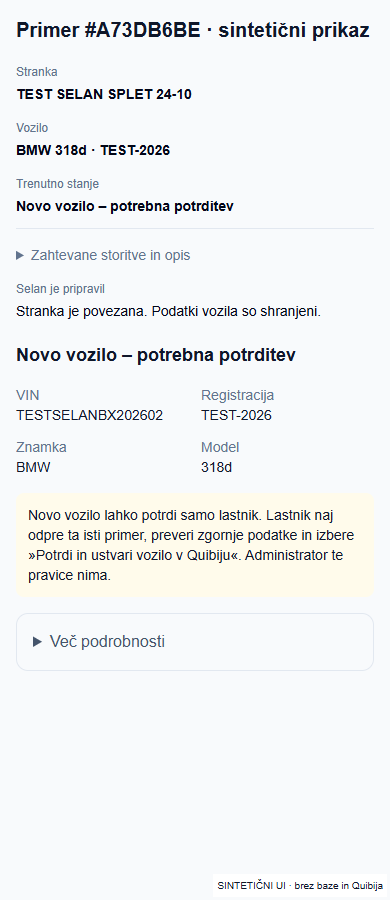
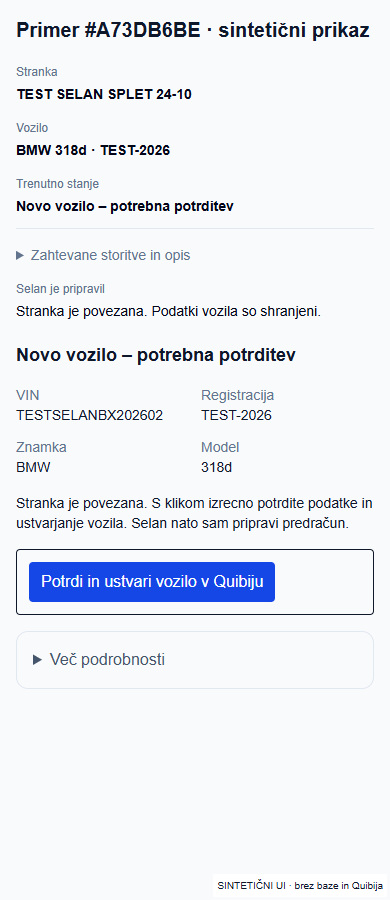
fix: allow explicit administrator vehicle confirmation in hosted DEV

Changed region(s): [[0.0308, 0.5289, 0.9231, 0.7467], [0.9231, 0.5289, 0.9538, 0.56], [0.0615, 0.7156, 0.0923, 0.7467]]

diff --git a/src/components/dashboard/VehicleResolutionPanel.tsx b/src/components/dashboard/VehicleResolutionPanel.tsx
@@ -1,11 +1,12 @@
+import {canConfirmQuibiVehicleCreate} from '@/lib/quibi/vehicle-create-permission';
 import {NewVehicleDecision} from './NewVehicleDecision';
 import {isHostedQuibiEnvironment,hostedQuibiEnvironment} from '@/lib/quibi/deployment-policy';
 import {quibiWorkflowConfig} from '@/lib/quibi/workflow-config';
 import {createClient as privileged} from '@supabase/supabase-js';import {requirePhase1OperationalAccess} from '@/lib/auth/requireWorkshopAccess';import {createClient} from '@/lib/supabase/server';import {configuredQuibiReadClient} from '@/lib/quibi/client';import {vehicleFingerprint} from '@/lib/quibi/contracts';import {VehicleResolutionForm} from './VehicleResolutionForm';
-export async function VehicleResolutionPanel({caseId,focused=false}:{caseId:string;focused?:boolean}){const a=await requirePhase1OperationalAccess();if(!['owner','admin'].includes(a.role)||!isHostedQuibiEnvironment(process.env))return null;const db=await createClient();const r=await db.from('service_requests').select('customer_id,vehicle_id,status,updated_at').eq('id',caseId).eq('organization_id',a.organizationId).single();if(r.error||!r.data?.vehicle_id)return null;const [v,l,vl]=await Promise.all([db.from('vehicles').select('vin,registration_current,make,model').eq('id',r.data.vehicle_id).eq('organization_id',a.organizationId).single(),db.from('integration_links').select('external_id,sync_status,quibi_environment').eq('organization_id',a.organizationId).eq('entity_id',r.data.customer_id).eq('entity_type','customer').eq('provider','quibi').maybeSingle(),db.from('quibi_vehicle_links').select('quibi_vehicle_id,sync_status').eq('organization_id',a.organizationId).eq('vehicle_id',r.data.vehicle_id).maybeSingle()]);if(!v.data||!l.data||l.data.quibi_environment!==hostedQuibiEnvironment(process.env))return null;const fields={vin:v.data.vin??'',registration:v.data.registration_current??'',make:v.data.make??'',model:v.data.model??''};let candidates:Awaited<ReturnType<ReturnType<typeof configuredQuibiReadClient>['vehicles']>>=[];let readOk=true;try{candidates=await configuredQuibiReadClient().vehicles(l.data.external_id)}catch{readOk=false}const linked=candidates.find(x=>x.id===vl.data?.quibi_vehicle_id);let writeReady=false;try{writeReady=quibiWorkflowConfig(process.env,'write').mode===hostedQuibiEnvironment(process.env)}catch{}let ready=false;const key=process.env.SUPABASE_SERVICE_ROLE_KEY,url=process.env.NEXT_PUBLIC_SUPABASE_URL;if(key&&url){const readyResult=await privileged(url,key,{auth:{persistSession:false,autoRefreshToken:false}}).rpc('resolve_case_vehicle',{p_case:caseId,p_actor:a.userId,p_action:'ready'});ready=!readyResult.error&&readyResult.data?.ok===true}const customerLink=l.data;const editable=['new','needs_data'].includes(r.data.status);const labels={vin:'VIN',registration:'Registracija',make:'Znamka',model:'Model'};
+export async function VehicleResolutionPanel({caseId,focused=false}:{caseId:string;focused?:boolean}){const a=await requirePhase1OperationalAccess();if(!['owner','admin'].includes(a.role)||!isHostedQuibiEnvironment(process.env))return null;const canCreate=canConfirmQuibiVehicleCreate(a.role,process.env);const db=await createClient();const r=await db.from('service_requests').select('customer_id,vehicle_id,status,updated_at').eq('id',caseId).eq('organization_id',a.organizationId).single();if(r.error||!r.data?.vehicle_id)return null;const [v,l,vl]=await Promise.all([db.from('vehicles').select('vin,registration_current,make,model').eq('id',r.data.vehicle_id).eq('organization_id',a.organizationId).single(),db.from('integration_links').select('external_id,sync_status,quibi_environment').eq('organization_id',a.organizationId).eq('entity_id',r.data.customer_id).eq('entity_type','customer').eq('provider','quibi').maybeSingle(),db.from('quibi_vehicle_links').select('quibi_vehicle_id,sync_status').eq('organization_id',a.organizationId).eq('vehicle_id',r.data.vehicle_id).maybeSingle()]);if(!v.data||!l.data||l.data.quibi_environment!==hostedQuibiEnvironment(process.env))return null;const fields={vin:v.data.vin??'',registration:v.data.registration_current??'',make:v.data.make??'',model:v.data.model??''};let candidates:Awaited<ReturnType<ReturnType<typeof configuredQuibiReadClient>['vehicles']>>=[];let readOk=true;try{candidates=await configuredQuibiReadClient().vehicles(l.data.external_id)}catch{readOk=false}const linked=candidates.find(x=>x.id===vl.data?.quibi_vehicle_id);let writeReady=false;try{writeReady=quibiWorkflowConfig(process.env,'write').mode===hostedQuibiEnvironment(process.env)}catch{}let ready=false;const key=process.env.SUPABASE_SERVICE_ROLE_KEY,url=process.env.NEXT_PUBLIC_SUPABASE_URL;if(key&&url){const readyResult=await privileged(url,key,{auth:{persistSession:false,autoRefreshToken:false}}).rpc('resolve_case_vehicle',{p_case:caseId,p_actor:a.userId,p_action:'ready'});ready=!readyResult.error&&readyResult.data?.ok===true}const customerLink=l.data;const editable=['new','needs_data'].includes(r.data.status);const labels={vin:'VIN',registration:'Registracija',make:'Znamka',model:'Model'};
 const sameVehicle=candidates.filter(x=>!x.disabled&&(x.vin.trim().toUpperCase()===fields.vin.trim().toUpperCase()||x.registration.replace(/[^a-z0-9]/gi,'').toLowerCase()===fields.registration.replace(/[^a-z0-9]/gi,'').toLowerCase()));
-if(focused&&!vl.data&&editable&&!sameVehicle.length)return <NewVehicleDecision role={a.role} caseId={caseId} expected={r.data.updated_at} fields={fields} fingerprint={vehicleFingerprint(fields)} readOk={readOk} enabled={ready&&writeReady&&customerLink.sync_status==='ok'}/>;
+if(focused&&!vl.data&&editable&&!sameVehicle.length)return <NewVehicleDecision canCreate={canCreate} role={a.role} caseId={caseId} expected={r.data.updated_at} fields={fields} fingerprint={vehicleFingerprint(fields)} readOk={readOk} enabled={ready&&writeReady&&customerLink.sync_status==='ok'}/>;
 if(focused&&!vl.data&&editable)return <section aria-label="Potrditev vozila" className="space-y-4"><h2 className="text-lg font-semibold">{sameVehicle.length?'Preveri obstoječe vozilo':'Novo vozilo – potrebna potrditev'}</h2><dl className="grid grid-cols-2 gap-3 text-sm">{Object.entries(fields).map(([key,value])=><div key={key}><dt className="text-slate-500">{labels[key as keyof typeof labels]}</dt><dd className="break-words font-medium">{value||'Manjka podatek'}</dd></div>)}</dl>
-{!readOk?<p role="alert">Vozil trenutno ni mogoče preveriti. Podatki ostajajo shranjeni; poskusite po ponovni vzpostavitvi povezave.</p>:sameVehicle.length?<> <p>V Quibiju obstaja možna povezava. Novega vozila ne ustvarjajte.</p>{sameVehicle.map(x=><div key={x.id}><p>{x.registration} · {x.make} {x.model} · {x.vin}</p>{vehicleFingerprint(fields)===vehicleFingerprint(x)?<VehicleResolutionForm caseId={caseId} expected={r.data.updated_at} mode="link" remoteId={x.id} remoteFingerprint={vehicleFingerprint(x)} enabled={ready&&customerLink.sync_status==='ok'}/>:<p>Podatki se razlikujejo. Preverite in popravite podatke v podrobnostih primera.</p>}</div>)}</>:a.role!=='owner'?<p role="status" className="rounded-lg bg-amber-50 p-3 text-sm">Novo vozilo lahko potrdi samo lastnik. Lastnik naj odpre ta isti primer, preveri zgornje podatke in izbere »Potrdi in ustvari vozilo v Quibiju«. Administrator te pravice nima.</p>:ready&&writeReady&&customerLink.sync_status==='ok'?<><p className="text-sm">Stranka je povezana. S klikom izrecno potrdite zgornje podatke in ustvarjanje vozila. Selan nato sam pripravi predračun.</p><VehicleResolutionForm directConfirmation caseId={caseId} expected={r.data.updated_at} mode="create" baselineFingerprint={vehicleFingerprint(fields)} enabled={!!fields.vin&&!!fields.registration&&!!fields.make&&!!fields.model}/></>:<p role="status">Ustvarjanje še ni na voljo. Lastnik naj preveri manjkajoče podatke oziroma povezavo v podrobnostih primera; vozilo ni ustvarjeno.</p>}
+{!readOk?<p role="alert">Vozil trenutno ni mogoče preveriti. Podatki ostajajo shranjeni; poskusite po ponovni vzpostavitvi povezave.</p>:sameVehicle.length?<> <p>V Quibiju obstaja možna povezava. Novega vozila ne ustvarjajte.</p>{sameVehicle.map(x=><div key={x.id}><p>{x.registration} · {x.make} {x.model} · {x.vin}</p>{vehicleFingerprint(fields)===vehicleFingerprint(x)?<VehicleResolutionForm caseId={caseId} expected={r.data.updated_at} mode="link" remoteId={x.id} remoteFingerprint={vehicleFingerprint(x)} enabled={ready&&customerLink.sync_status==='ok'}/>:<p>Podatki se razlikujejo. Preverite in popravite podatke v podrobnostih primera.</p>}</div>)}</>:!canCreate?<p role="status" className="rounded-lg bg-amber-50 p-3 text-sm">Novo vozilo lahko potrdi samo lastnik. Lastnik naj odpre ta isti primer, preveri zgornje podatke in izbere »Potrdi in ustvari vozilo v Quibiju«. Administrator te pravice nima.</p>:ready&&writeReady&&customerLink.sync_status==='ok'?<><p className="text-sm">Stranka je povezana. S klikom izrecno potrdite zgornje podatke in ustvarjanje vozila. Selan nato sam pripravi predračun.</p><VehicleResolutionForm directConfirmation caseId={caseId} expected={r.data.updated_at} mode="create" baselineFingerprint={vehicleFingerprint(fields)} enabled={!!fields.vin&&!!fields.registration&&!!fields.make&&!!fields.model}/></>:<p role="status">Ustvarjanje še ni na voljo. Preverite manjkajoče podatke oziroma povezavo v podrobnostih primera; vozilo ni ustvarjeno.</p>}
 </section>;
-return <section className="space-y-4 rounded-xl border bg-white p-4"><h2 className="text-lg font-semibold">Preveri in razreši vozilo</h2><p>Popravek povpraševanja in povezava ne spreminjata vozila v Quibiju. Prejšnji podatki ostanejo v zgodovini. Potrdi samo isto fizično vozilo.</p><div className="overflow-x-auto"><table className="w-full text-left text-sm"><thead><tr><th>Podatek</th><th>Povpraševanje</th><th>Quibi {vl.data?'#'+vl.data.quibi_vehicle_id:''}</th></tr></thead><tbody>{Object.entries(fields).map(([key,value])=><tr key={key} className={linked&&value!==linked[key as keyof typeof fields]?'bg-amber-50':''}><th className="p-2">{labels[key as keyof typeof labels]}</th><td className="break-all p-2">{value||'Manjka'}</td><td className="break-all p-2">{linked?.[key as keyof typeof fields]||'Ni potrjeno prebrano'}</td></tr>)}</tbody></table></div>{!readOk&&<p role="alert">Quibi vozil trenutno ni mogoče prebrati. Izbira in CREATE sta ustavljena.</p>}{!ready&&<p role="alert">Popravek in zamenjava povezave še čakata odobritev minimalne migracije case_vehicle_resolution. Primerjavo lahko uporabljate že zdaj; podatki niso spremenjeni.</p>}{!editable&&<p>Primer je že sprejet. Pred spremembo identitete je potreben pregled vezanih dokumentov; podatkov ne prepisujemo.</p>}<details><summary className="cursor-pointer py-2 font-medium">Popravi napačne podatke povpraševanja po preverjanju</summary><VehicleResolutionForm caseId={caseId} expected={r.data.updated_at} mode="correct" fields={fields} enabled={ready&&editable}/></details><h3 className="font-semibold">Obstoječa vozila stranke v Quibiju</h3>{candidates.filter(x=>!x.disabled).map(x=>{const matches=vehicleFingerprint(fields)===vehicleFingerprint(x);return <article key={x.id} className="rounded border p-3"><p>#{x.id} · {x.registration} · {x.make} {x.model} · VIN {x.vin}</p><p className="text-sm">{matches?'Podatki se ujemajo s povpraševanjem.':'Podatki se ne ujemajo. Najprej preverite pravilen izvor podatkov; te povezave ne potrjujte.'}</p><details><summary className="cursor-pointer py-2">To je pravo vozilo: pripravi popravek povpraševanja iz teh podatkov</summary><VehicleResolutionForm caseId={caseId} expected={r.data.updated_at} mode="correct" fields={{vin:x.vin,registration:x.registration,make:x.make,model:x.model}} enabled={ready&&editable}/></details><VehicleResolutionForm caseId={caseId} expected={r.data.updated_at} mode="link" remoteId={x.id} remoteFingerprint={vehicleFingerprint(x)} enabled={ready&&editable&&matches&&customerLink.sync_status==='ok'}/></article>})}<details><summary className="cursor-pointer py-2 font-medium">Vozila ni v Quibiju: pripravi novo vozilo</summary><p>Lastnik naj najprej preveri in popravi VIN ter podatke povpraševanja. CREATE preveri podvojitve, uporablja obstoječi dnevnik in ponovno prebere rezultat. Ob neznanem izidu zahteve ne ponovi.</p><VehicleResolutionForm caseId={caseId} expected={r.data.updated_at} mode="create" baselineFingerprint={vehicleFingerprint(fields)} enabled={ready&&editable&&readOk&&writeReady&&a.role==='owner'&&!candidates.some(x=>x.vin.trim().toUpperCase()===fields.vin.trim().toUpperCase())&&l.data.sync_status==='ok'}/></details></section>}
+return <section className="space-y-4 rounded-xl border bg-white p-4"><h2 className="text-lg font-semibold">Preveri in razreši vozilo</h2><p>Popravek povpraševanja in povezava ne spreminjata vozila v Quibiju. Prejšnji podatki ostanejo v zgodovini. Potrdi samo isto fizično vozilo.</p><div className="overflow-x-auto"><table className="w-full text-left text-sm"><thead><tr><th>Podatek</th><th>Povpraševanje</th><th>Quibi {vl.data?'#'+vl.data.quibi_vehicle_id:''}</th></tr></thead><tbody>{Object.entries(fields).map(([key,value])=><tr key={key} className={linked&&value!==linked[key as keyof typeof fields]?'bg-amber-50':''}><th className="p-2">{labels[key as keyof typeof labels]}</th><td className="break-all p-2">{value||'Manjka'}</td><td className="break-all p-2">{linked?.[key as keyof typeof fields]||'Ni potrjeno prebrano'}</td></tr>)}</tbody></table></div>{!readOk&&<p role="alert">Quibi vozil trenutno ni mogoče prebrati. Izbira in CREATE sta ustavljena.</p>}{!ready&&<p role="alert">Popravek in zamenjava povezave še čakata odobritev minimalne migracije case_vehicle_resolution. Primerjavo lahko uporabljate že zdaj; podatki niso spremenjeni.</p>}{!editable&&<p>Primer je že sprejet. Pred spremembo identitete je potreben pregled vezanih dokumentov; podatkov ne prepisujemo.</p>}<details><summary className="cursor-pointer py-2 font-medium">Popravi napačne podatke povpraševanja po preverjanju</summary><VehicleResolutionForm caseId={caseId} expected={r.data.updated_at} mode="correct" fields={fields} enabled={ready&&editable}/></details><h3 className="font-semibold">Obstoječa vozila stranke v Quibiju</h3>{candidates.filter(x=>!x.disabled).map(x=>{const matches=vehicleFingerprint(fields)===vehicleFingerprint(x);return <article key={x.id} className="rounded border p-3"><p>#{x.id} · {x.registration} · {x.make} {x.model} · VIN {x.vin}</p><p className="text-sm">{matches?'Podatki se ujemajo s povpraševanjem.':'Podatki se ne ujemajo. Najprej preverite pravilen izvor podatkov; te povezave ne potrjujte.'}</p><details><summary className="cursor-pointer py-2">To je pravo vozilo: pripravi popravek povpraševanja iz teh podatkov</summary><VehicleResolutionForm caseId={caseId} expected={r.data.updated_at} mode="correct" fields={{vin:x.vin,registration:x.registration,make:x.make,model:x.model}} enabled={ready&&editable}/></details><VehicleResolutionForm caseId={caseId} expected={r.data.updated_at} mode="link" remoteId={x.id} remoteFingerprint={vehicleFingerprint(x)} enabled={ready&&editable&&matches&&customerLink.sync_status==='ok'}/></article>})}<details><summary className="cursor-pointer py-2 font-medium">Vozila ni v Quibiju: pripravi novo vozilo</summary><p>Pred potrditvijo preverite in popravite VIN ter podatke povpraševanja. CREATE preveri podvojitve, uporablja obstoječi dnevnik in ponovno prebere rezultat. Ob neznanem izidu zahteve ne ponovi.</p><VehicleResolutionForm caseId={caseId} expected={r.data.updated_at} mode="create" baselineFingerprint={vehicleFingerprint(fields)} enabled={ready&&editable&&readOk&&writeReady&&canCreate&&!candidates.some(x=>x.vin.trim().toUpperCase()===fields.vin.trim().toUpperCase())&&l.data.sync_status==='ok'}/></details></section>}

diff --git a/src/lib/quibi/vehicle-resolution-actions.ts b/src/lib/quibi/vehicle-resolution-actions.ts
@@ -1,4 +1,5 @@
 "use server";
+import {canConfirmQuibiVehicleCreate} from './vehicle-create-permission';
 import {scheduleIntakeSynchronization} from './automatic-intake-sync';
 import {hostedQuibiEnvironment,quibiJournalTable} from './deployment-policy';
 import {quibiWorkflowConfig} from './workflow-config';
@@ -31,9 +32,16 @@ export async function resolveCaseVehicle(form:FormData){try{
  revalidatePath('/dashboard');revalidatePath('/dashboard/primeri/'+id);return {ok:true,message:mode==='link'?'Vozilo je povezano. Selan samodejno pripravlja predračun.':'Popravek povpraševanja je shranjen; prejšnji podatki ostanejo v zgodovini. Zdaj preverite in potrdite pravo Quibi vozilo.'};
 }catch(e){const code=e instanceof Error?e.message:'';return {ok:false,message:/CORRECT_INTAKE_FIRST|VEHICLE_IDENTITY_MISMATCH/.test(code)?'Izbrano vozilo se ne ujema. Najprej preverite in popravite podatke povpraševanja; povezava ni potrjena.':/CASE_CHANGED|REVISION_CONFLICT/.test(code)?'Primer ali podatki so se spremenili. Osvežite stran in ponovno preglejte popravek.':/VEHICLE_SHARED|VEHICLE_CONFLICT|OWNERSHIP_CONFLICT/.test(code)?'Vozilo je uporabljeno drugje ali ima drugo stranko. Sprememba je ustavljena, da ohranimo druge primere.':'Razrešitev ni shranjena. Preverite identiteto in odobreno aktivacijo funkcije; noben Quibi zapis ni spremenjen.'}}
 }
-export async function createVehicleForCase(form:FormData){try{const environment=hostedQuibiEnvironment(process.env);const a=await requirePhase1OperationalAccess();if(a.role!=='owner'||form.get('confirmed')!=='yes')throw Error('FORBIDDEN');quibiWorkflowConfig(process.env,'write');const db=await createClient();const id=String(form.get('caseId'));const r=await db.from('service_requests').select('customer_id,vehicle_id,status,updated_at').eq('id',id).eq('organization_id',a.organizationId).is('archived_at',null).single();if(r.error||!r.data||!['new','needs_data'].includes(r.data.status))throw Error('CASE_CHANGED');
+export async function createVehicleForCase(form:FormData){try{const environment=hostedQuibiEnvironment(process.env);const a=await requirePhase1OperationalAccess();if(!canConfirmQuibiVehicleCreate(a.role,process.env)||form.get('confirmed')!=='yes')throw Error('FORBIDDEN');quibiWorkflowConfig(process.env,'write');const db=await createClient();const id=String(form.get('caseId'));const r=await db.from('service_requests').select('customer_id,vehicle_id,status,updated_at').eq('id',id).eq('organization_id',a.organizationId).is('archived_at',null).single();if(r.error||!r.data||!['new','needs_data'].includes(r.data.status))throw Error('CASE_CHANGED');
  if(r.data.updated_at!==String(form.get('expected'))||!UUID_RE.test(String(form.get('revision'))))throw Error('CASE_CHANGED');const key=process.env.SUPABASE_SERVICE_ROLE_KEY,url=process.env.NEXT_PUBLIC_SUPABASE_URL;if(!key||!url)throw Error('ACTIVATION_REQUIRED');const store=privileged(url,key,{auth:{persistSession:false,autoRefreshToken:false}});const ready=await store.rpc('resolve_case_vehicle',{p_case:id,p_actor:a.userId,p_action:'ready'});if(ready.error||!ready.data?.ok)throw Error('ACTIVATION_REQUIRED');
  const [v,l,c]=await Promise.all([db.from('vehicles').select('vin,registration_current,make,model').eq('id',r.data.vehicle_id).eq('customer_id',r.data.customer_id).eq('organization_id',a.organizationId).single(),db.from('integration_links').select('*').eq('organization_id',a.organizationId).eq('entity_id',r.data.customer_id).eq('entity_type','customer').eq('provider','quibi').single(),db.from('customers').select('display_name,phone,email').eq('id',r.data.customer_id).eq('organization_id',a.organizationId).single()]);if(v.error||l.error||c.error||!v.data||!l.data||!c.data||l.data.sync_status!=='ok'||l.data.quibi_environment!==environment)throw Error('IDENTITY_UNVERIFIED');const read=configuredQuibiReadClient();if(customerFingerprint(await read.customer(l.data.external_id))!==l.data.external_fingerprint||customerFingerprint({name:c.data.display_name,phone:c.data.phone??'',email:c.data.email??''})!==l.data.local_fingerprint)throw Error('IDENTITY_UNVERIFIED');const fields={vin:v.data.vin??'',registration:v.data.registration_current??'',make:v.data.make??'',model:v.data.model??''};if(!fields.vin||!fields.registration||!fields.make||!fields.model)throw Error('INVALID_FIELDS');
  if(vehicleFingerprint(fields)!==String(form.get('baselineFingerprint')))throw Error('CASE_CHANGED');const bound=await db.from(quibiJournalTable(environment)).select('id').eq('organization_id',a.organizationId).eq('service_request_id',id).in('kind',['estimate','work_order','invoice','send']).limit(1);const quote=await db.from('quotes').select('id').eq('organization_id',a.organizationId).eq('service_request_id',id).limit(1);if(bound.error||quote.error||bound.data?.length||quote.data?.length)throw Error('DOCUMENTS_BOUND');const op=await createOrReconcileVehicle({journal:quibiWorkflowJournal(a.organizationId,a.userId),read,write:configuredQuibiWorkflowWriteClient(),input:{serviceRequestId:id,vehicleId:r.data.vehicle_id!,quibiCustomerId:l.data.external_id,...fields}});if(!op.quibiId)throw Error('UNKNOWN');const remote=await read.vehicle(op.quibiId,l.data.external_id);if(remote.disabled||vehicleFingerprint(remote)!==vehicleFingerprint(fields))throw Error('UNKNOWN');
  const result=await store.rpc('resolve_case_vehicle',{p_case:id,p_actor:a.userId,p_action:'link',p_revision:String(form.get('revision')),p_expected:String(form.get('expected')),p_fields:fields,p_remote:{id:remote.id,customerId:remote.customerId,fingerprint:vehicleFingerprint(remote),fields}});if(result.error)throw Error('UNKNOWN');if(result.data?.vehicleId)await refreshResolvedCompleteness(db,store,a.organizationId,id,String(result.data.vehicleId));scheduleIntakeSynchronization(id);revalidatePath('/dashboard');revalidatePath('/dashboard/primeri/'+id);return {ok:true,message:'Vozilo je ustvarjeno in povezano. Selan samodejno pripravlja predračun.'};
-}catch{return {ok:false,message:'Ustvarjanje oziroma povezava nista potrjena. Preverite aktivacijo, identiteto in dnevnik. Ob neznanem izidu ne pošiljajte CREATE znova.'}}}
+}catch(e){const code=e instanceof Error?e.message:'';const messages:Record<string,string>={
+ FORBIDDEN:'Za novo vozilo je potrebna izrecna potrditev pooblaščenega uporabnika. Administrator ima to pravico samo v gostovanem DEV.',
+ CASE_CHANGED:'Podatki primera so se spremenili. Osvežite stran, preglejte trenutno vozilo in ga nato potrdite.',
+ ACTIVATION_REQUIRED:'Povezava za zapis ni pripravljena. Skrbnik naj preveri povezavo Quibi DEV; vozila še ne ustvarjajte.',
+ IDENTITY_UNVERIFIED:'Povezava stranke se je spremenila. Najprej preverite stranko v podrobnostih primera.',
+ INVALID_FIELDS:'Dopolnite VIN, registracijo, znamko in model v podatkih primera.',
+ DOCUMENTS_BOUND:'Primer že ima vezan dokument. Preverite obstoječe dokumente v podrobnostih; novega vozila ne ustvarjajte.',
+};return {ok:false,message:messages[code]??'Ustvarjanje oziroma povezava nista potrjena. Preverite obstoječe vozilo in dnevnik v podrobnostih. Ob neznanem izidu ne ustvarjajte ponovno.'}}}

diff --git a/src/components/dashboard/VehicleResolutionForm.tsx b/src/components/dashboard/VehicleResolutionForm.tsx
@@ -1,3 +1,3 @@
 "use client";
 import {useRef,useState,useTransition} from 'react';import {useRouter} from 'next/navigation';import {resolveCaseVehicle,createVehicleForCase} from '@/lib/quibi/vehicle-resolution-actions';
-export function VehicleResolutionForm({caseId,expected,mode,fields,remoteId,remoteFingerprint,baselineFingerprint,enabled,directConfirmation=false}:{caseId:string;expected:string;mode:'correct'|'link'|'create';fields?:{vin:string;registration:string;make:string;model:string};remoteId?:string;remoteFingerprint?:string;baselineFingerprint?:string;enabled:boolean;directConfirmation?:boolean}){const router=useRouter(),lock=useRef(false),revision=useRef<string|null>(null),[pending,start]=useTransition(),[message,setMessage]=useState('');return <form className="space-y-2 rounded border p-3" onSubmit={e=>{e.preventDefault();if(lock.current)return;lock.current=true;const f=new FormData(e.currentTarget);revision.current??=crypto.randomUUID();f.set('caseId',caseId);f.set('mode',mode);f.set('expected',expected);f.set('revision',revision.current);if(baselineFingerprint)f.set('baselineFingerprint',baselineFingerprint);if(remoteId)f.set('remoteId',remoteId);if(remoteFingerprint)f.set('remoteFingerprint',remoteFingerprint);start(async()=>{try{const r=mode==='create'?await createVehicleForCase(f):await resolveCaseVehicle(f);setMessage(r.message);if(r.ok){revision.current=null;router.refresh()}}catch{setMessage('Izid ni potrjen. Preverite stanje pred ponovitvijo.')}finally{lock.current=false}})}}>{mode==='correct'&&fields&&Object.entries(fields).map(([key,value])=><label key={key} className="block">{{vin:'VIN',registration:'Registracija',make:'Znamka',model:'Model'}[key]}<input name={key} defaultValue={value} required maxLength={key==='vin'?32:100} className="block w-full rounded border p-2"/></label>)}{directConfirmation&&mode==='create'?<input type="hidden" name="confirmed" value="yes"/>:<><label className="flex gap-2"><input name="confirmed" value="yes" type="checkbox" required/> {mode==='create'?'Kot lastnik potrjujem ustvarjanje novega vozila v Quibi DEV po pregledu podatkov in obstoječih vozil.':mode==='link'?'Preveril sem VIN in podatke. To je isto fizično vozilo.':'Preveril sem izvor pravilnih podatkov in potrjujem popravek samo tega povpraševanja.'}</label></>}<button disabled={!enabled||pending} className="rounded bg-blue-700 px-3 py-2 text-white disabled:opacity-50">{pending?'Preverjam…':mode==='create'?'Potrdi in ustvari vozilo v Quibiju':mode==='link'?'Potrdi pravo vozilo':'Shrani preverjeni popravek'}</button>{message&&<p role="status">{message}</p>}</form>}
+export function VehicleResolutionForm({caseId,expected,mode,fields,remoteId,remoteFingerprint,baselineFingerprint,enabled,directConfirmation=false}:{caseId:string;expected:string;mode:'correct'|'link'|'create';fields?:{vin:string;registration:string;make:string;model:string};remoteId?:string;remoteFingerprint?:string;baselineFingerprint?:string;enabled:boolean;directConfirmation?:boolean}){const router=useRouter(),lock=useRef(false),revision=useRef<string|null>(null),[pending,start]=useTransition(),[message,setMessage]=useState('');return <form className="space-y-2 rounded border p-3" onSubmit={e=>{e.preventDefault();if(lock.current)return;lock.current=true;const f=new FormData(e.currentTarget);revision.current??=crypto.randomUUID();f.set('caseId',caseId);f.set('mode',mode);f.set('expected',expected);f.set('revision',revision.current);if(baselineFingerprint)f.set('baselineFingerprint',baselineFingerprint);if(remoteId)f.set('remoteId',remoteId);if(remoteFingerprint)f.set('remoteFingerprint',remoteFingerprint);start(async()=>{try{const r=mode==='create'?await createVehicleForCase(f):await resolveCaseVehicle(f);setMessage(r.message);if(r.ok){revision.current=null;router.refresh()}}catch{setMessage('Izid ni potrjen. Preverite stanje pred ponovitvijo.')}finally{lock.current=false}})}}>{mode==='correct'&&fields&&Object.entries(fields).map(([key,value])=><label key={key} className="block">{{vin:'VIN',registration:'Registracija',make:'Znamka',model:'Model'}[key]}<input name={key} defaultValue={value} required maxLength={key==='vin'?32:100} className="block w-full rounded border p-2"/></label>)}{directConfirmation&&mode==='create'?<input type="hidden" name="confirmed" value="yes"/>:<><label className="flex gap-2"><input name="confirmed" value="yes" type="checkbox" required/> {mode==='create'?'Izrecno potrjujem ustvarjanje novega vozila v Quibi DEV po pregledu podatkov in obstoječih vozil.':mode==='link'?'Preveril sem VIN in podatke. To je isto fizično vozilo.':'Preveril sem izvor pravilnih podatkov in potrjujem popravek samo tega povpraševanja.'}</label></>}<button disabled={!enabled||pending} className="rounded bg-blue-700 px-3 py-2 text-white disabled:opacity-50">{pending?'Preverjam…':mode==='create'?'Potrdi in ustvari vozilo v Quibiju':mode==='link'?'Potrdi pravo vozilo':'Shrani preverjeni popravek'}</button>{message&&<p role="status">{message}</p>}</form>}

diff --git a/src/components/dashboard/NewVehicleDecision.tsx b/src/components/dashboard/NewVehicleDecision.tsx
@@ -1,10 +1,10 @@
 import {VehicleResolutionForm} from './VehicleResolutionForm';
 type Fields={vin:string;registration:string;make:string;model:string};
-/** Permission mirrors the existing server action: only owner may confirm CREATE. */
-export function NewVehicleDecision({role,caseId,expected,fields,fingerprint,enabled,readOk=true}:{role:string;caseId:string;expected:string;fields:Fields;fingerprint:string;enabled:boolean;readOk?:boolean}){
+/** Permission mirrors the existing server action: capability is decided server-side; the action independently authorizes CREATE. */
+export function NewVehicleDecision({role,caseId,expected,fields,fingerprint,enabled,readOk=true,canCreate=false}:{role:string;caseId:string;expected:string;fields:Fields;fingerprint:string;enabled:boolean;readOk?:boolean;canCreate?:boolean}){
  const complete=Object.values(fields).every(value=>!!value.trim());
  return <section aria-label="Potrditev vozila" className="space-y-4"><h2 className="text-lg font-semibold">Novo vozilo – potrebna potrditev</h2>
  <dl className="grid grid-cols-2 gap-3 text-sm">{Object.entries(fields).map(([key,value])=><div key={key}><dt className="text-slate-500">{{vin:'VIN',registration:'Registracija',make:'Znamka',model:'Model'}[key]}</dt><dd className="break-words font-medium">{value||'Manjka podatek'}</dd></div>)}</dl>
- {!readOk?<p role="status">Obstoječih vozil trenutno ni mogoče preveriti. Povezava mora biti obnovljena pred ustvarjanjem; podatki povpraševanja ostajajo shranjeni.</p>:role!=='owner'?<p role="status" className="rounded-lg bg-amber-50 p-3 text-sm">Novo vozilo lahko potrdi samo lastnik. Lastnik naj odpre ta isti primer, preveri zgornje podatke in izbere »Potrdi in ustvari vozilo v Quibiju«. Administrator te pravice nima.</p>:enabled&&complete?<><p className="text-sm">Stranka je povezana. S klikom izrecno potrdite podatke in ustvarjanje vozila. Selan nato sam pripravi predračun.</p><VehicleResolutionForm directConfirmation caseId={caseId} expected={expected} mode="create" baselineFingerprint={fingerprint} enabled/></>:<p role="status">{!complete?'Dopolnite manjkajoče podatke vozila.':'Povezava ali dovoljenje za zapis še nista potrjena.'} <a className="text-blue-700 underline" href="#podatki">Odpri podatke in preveri povezavo</a></p>}
+ {!readOk?<p role="status">Obstoječih vozil trenutno ni mogoče preveriti. Povezava mora biti obnovljena pred ustvarjanjem; podatki povpraševanja ostajajo shranjeni.</p>:!(role==='owner'||canCreate)?<p role="status" className="rounded-lg bg-amber-50 p-3 text-sm">Novo vozilo lahko potrdi samo lastnik. Lastnik naj odpre ta isti primer, preveri zgornje podatke in izbere »Potrdi in ustvari vozilo v Quibiju«. Administrator te pravice nima.</p>:enabled&&complete?<><p className="text-sm">Stranka je povezana. S klikom izrecno potrdite podatke in ustvarjanje vozila. Selan nato sam pripravi predračun.</p><VehicleResolutionForm directConfirmation caseId={caseId} expected={expected} mode="create" baselineFingerprint={fingerprint} enabled/></>:<p role="status">{!complete?'Dopolnite manjkajoče podatke vozila.':'Povezava ali dovoljenje za zapis še nista potrjena.'} <a className="text-blue-700 underline" href="#podatki">Odpri podatke in preveri povezavo</a></p>}
  </section>;
 }

diff --git a/src/lib/cases/journey.ts b/src/lib/cases/journey.ts
@@ -2,7 +2,7 @@ import type {AutomaticDraftState} from '../quibi/automatic-estimate-draft';
 import {automaticDraftPresentation} from '../quibi/automatic-draft-state.ts';
 /** Presentation only. Existing server actions remain the authority for every transition. */
 export type JourneyInput = {
- newVehicleRequired?:boolean; automaticDraftState?:AutomaticDraftState|null; automaticPreparation?:boolean; status: string; role: string; stepKind: string; intakeComplete: boolean;
+ canCreateVehicle?:boolean; newVehicleRequired?:boolean; automaticDraftState?:AutomaticDraftState|null; automaticPreparation?:boolean; status: string; role: string; stepKind: string; intakeComplete: boolean;
  identityReady: boolean; hosted: boolean; offerPrepared: boolean; quoteReviewed: boolean;
  customerApproved: boolean; dispatched: boolean; hasWorkOrder: boolean;
  writeReady: boolean; sendReady: boolean; devNoEmail?: boolean; sendAttempted?: boolean; sendState?: string|null; workOrderHref?: string; hasAssignedWork?: boolean; repairPhase?: string; internalOrdersEnabled?: boolean; inspectionPending?: boolean; fixedPriceStatus?: string;
@@ -28,10 +28,10 @@ export function caseJourney(p: JourneyInput) {
  if(!p.intakeComplete||p.status==='needs_data'){
   blocker='Manjkajo podatki za nadaljevanje. V podatkih primera preverite seznam in ustvarite povezavo za dopolnitev istega povpraševanja.';return result();
  }
- if(p.newVehicleRequired){action={label:p.role==='owner'?'Preveri in potrdi vozilo':'Navodilo za lastnika',href:'#quibi-povezava'};blocker=null;return result();}
+ if(p.newVehicleRequired){action={label:(p.role==='owner'||p.canCreateVehicle)?'Preveri in potrdi vozilo':'Navodilo za lastnika',href:'#quibi-povezava'};blocker=null;return result();}
  if(p.hosted&&!p.identityReady){
   action={label:'Preveri stranko in vozilo',href:'#quibi-povezava'};
-  blocker='Povezava stranke in vozila s Quibijem še ni potrjena. Primerjajte podatke v razdelku Povezava s Quibijem; ustvarjanje manjkajočega vozila potrdi lastnik.';return result();
+  blocker='Povezava stranke in vozila s Quibijem še ni potrjena. Primerjajte podatke v razdelku Povezava s Quibijem; ustvarjanje manjkajočega vozila potrdi pooblaščeni uporabnik v prikazanem obrazcu.';return result();
  }
  if(p.stepKind==='manual_inspection_billing'){
   current=6;action={label:'Uredi račun pregleda',href:'#termini'};return result();

diff --git a/src/app/dashboard/primeri/[serviceRequestId]/page.tsx b/src/app/dashboard/primeri/[serviceRequestId]/page.tsx
@@ -1,3 +1,4 @@
+import {canConfirmQuibiVehicleCreate} from '@/lib/quibi/vehicle-create-permission';
 import {automaticDraftPresentation} from '@/lib/quibi/automatic-draft-state';
 import {AutomaticPreparationRefresh} from '@/components/dashboard/AutomaticPreparationRefresh';
 import {scheduleIntakeSynchronization} from '@/lib/quibi/automatic-intake-sync';
@@ -255,7 +256,7 @@ export default async function CasePage({ params }: { params: Promise<{ serviceRe
     const currentAttention=visibleIdentityNotice(request.attention_reason,identityConfirmed);
     const currentError=visibleIdentityNotice(request.error_reason,identityConfirmed);
     const newVehicleRequired=!!customer&&link?.sync_status==='ok'&&!vehicleLink&&!quote&&['new','needs_data'].includes(request.status);
-    const journeyInput:JourneyInput={newVehicleRequired,automaticDraftState:!quote&&!fixedPrice?automaticState:undefined,automaticPreparation:!quote&&!fixedPrice&&['new','preparing_offer','needs_data'].includes(request.status),status:request.status,role:access.role,stepKind:step.kind,
+    const journeyInput:JourneyInput={canCreateVehicle:canConfirmQuibiVehicleCreate(access.role,process.env),newVehicleRequired,automaticDraftState:!quote&&!fixedPrice?automaticState:undefined,automaticPreparation:!quote&&!fixedPrice&&['new','preparing_offer','needs_data'].includes(request.status),status:request.status,role:access.role,stepKind:step.kind,
         intakeComplete:missing.length===0&&!!customer&&!!vehicle,identityReady:link?.sync_status==='ok'&&vehicleLink?.sync_status==='ok'&&!resolvedVehicleNeedsReview&&(!isHostedQuibiEnvironment(process.env)||(link.quibi_environment===hostedQuibiEnvironment(process.env)&&vehicleLink.quibi_environment===hostedQuibiEnvironment(process.env))),
         hosted:isHostedQuibiEnvironment(process.env),offerPrepared:prep?.status==='ready_for_provider',quoteReviewed:quote?.internal_review_status==='approved_for_send',
         customerApproved:!!approval&&!!quote&&hasRecordedCustomerApproval(approval,quote.content_sha256),dispatched:approval?.delivery_status==='delivered'||sendOperation?.sendStatus==='sent',

diff --git a/src/lib/cases/journey.test.ts b/src/lib/cases/journey.test.ts
@@ -57,3 +57,5 @@ test('DEV email is optional and routes a reviewed estimate to separately recorde
 test('automatic preparation skips a separate intake click but preserves uncertainty and missing-data gates',()=>{for(const [state,label] of [['ready','Preglej in potrdi'],['ambiguous','Izberi storitev'],['missing_price','Vnesi ceno']] as const){const j=caseJourney({...base,automaticPreparation:true,automaticDraftState:state});assert.equal(j.action.label,label);assert.equal(j.action.href,'#predracun');}assert.equal(caseJourney({...base,automaticPreparation:true,automaticDraftState:'ready',identityReady:false}).action.href,'#quibi-povezava');});
 
 test('new vehicle is the next task for owner and a concrete owner handoff for admin',()=>{for(const role of ['owner','admin']){const result=caseJourney({...base,role,identityReady:false,newVehicleRequired:true});assert.equal(result.action.href,'#quibi-povezava');assert.equal(result.blocker,null);assert.equal(result.action.label,role==='owner'?'Preveri in potrdi vozilo':'Navodilo za lastnika');}});
+
+test('DEV admin capability exposes vehicle confirmation without a separate acceptance',()=>{const result=caseJourney({...base,role:'admin',canCreateVehicle:true,identityReady:false,newVehicleRequired:true});assert.equal(result.action.href,'#quibi-povezava');assert.equal(result.action.label,'Preveri in potrdi vozilo');assert.equal(result.blocker,null);});

diff --git a/src/lib/quibi/vehicle-create-permission.test.ts b/src/lib/quibi/vehicle-create-permission.test.ts
@@ -1,0 +1,13 @@
+import test from 'node:test';
+import assert from 'node:assert/strict';
+import {canConfirmQuibiVehicleCreate as allowed} from './vehicle-create-permission.ts';
+const dev={APP_ENV:'preproduction',QUIBI_MODE:'dev',VERCEL_ENV:'preview'};
+test('administrator may explicitly confirm only hosted Quibi DEV vehicles',()=>{
+ assert.equal(allowed('admin',dev),true);
+ for(const patch of [{APP_ENV:'production'},{QUIBI_MODE:'production'},{VERCEL_ENV:'production'},{VERCEL_ENV:'development'},{SELAN_REMOTE_DEMO:'1'},{NEXT_PUBLIC_SELAN_REMOTE_DEMO:'1'},{SELAN_LOCAL_REVIEW:'1'},{QUIBI_E2E_WRITE_ENABLED:'1'},{QUIBI_DEV_LOCAL_WRITE_ENABLED:'1'},{QUIBI_DEV_LOCAL_SEND_ENABLED:'1'}])assert.equal(allowed('admin',{...dev,...patch}),false);
+ assert.equal(allowed('admin',{}),false);
+ const prod={APP_ENV:'production',QUIBI_MODE:'production',VERCEL_ENV:'production',SELAN_DEV_SUPABASE_PROJECT_REF:'dev',SELAN_PRODUCTION_SUPABASE_PROJECT_REF:'prod',NEXT_PUBLIC_SUPABASE_URL:'https://prod.supabase.co'};
+ assert.equal(allowed('admin',prod),false);assert.equal(allowed('owner',prod),true);
+ for(const role of ['reception','mechanic','customer','', 'OWNER'])assert.equal(allowed(role,dev),false);
+ assert.equal(allowed('owner',dev),true);
+});

diff --git a/src/app/dashboard/stranke/[customerId]/quibi/page.tsx b/src/app/dashboard/stranke/[customerId]/quibi/page.tsx
@@ -1,3 +1,4 @@
+import {canConfirmQuibiVehicleCreate} from '@/lib/quibi/vehicle-create-permission';
 import {localSyntheticQaAllowed} from "@/lib/appointments/synthetic-qa-policy";
 import {QuibiPartyUpdate} from '@/components/dashboard/QuibiPartyUpdate';
 import { QuibiLinkSubmit } from "@/components/quibi-link-submit";
@@ -188,7 +189,7 @@ export default async function QuibiCustomerPage({ params, searchParams }: {
               <p>Selanovo vozilo: {registration || "brez registracije"} · VIN/šasija {vin || "ni navedena"}</p>
               {!registration || !vin ? <p role="alert">Za ustvarjanje v Quibiju sta potrebni registracija in številka šasije.</p>
                 : matching ? <p>Možno ujemanje že obstaja; najprej preverite in povežite prikazano vozilo.</p>
-                  : access.role!=='owner'?<p>Ustvarjanje novega vozila mora izrecno potrditi lastnik.</p>:<QuibiDevPartyCreate customerId={customerId} vehicleId={vehicle.id} />}
+                  : !canConfirmQuibiVehicleCreate(access.role,process.env)?<p>Ustvarjanje novega vozila mora izrecno potrditi lastnik.</p>:<QuibiDevPartyCreate customerId={customerId} vehicleId={vehicle.id} />}
             </div>;
           })}
       </section>

diff --git a/src/lib/quibi/party-write-actions.ts b/src/lib/quibi/party-write-actions.ts
@@ -1,4 +1,5 @@
 "use server";
+import {canConfirmQuibiVehicleCreate} from './vehicle-create-permission';
 
 import {headers} from 'next/headers';
 import {assertLocalPartyWriteRequest} from './local-write-policy';
@@ -86,7 +87,7 @@ export async function createQuibiDevVehicle(form: FormData): Promise<Result> {
   const { customerId, vehicleId } = inputIds;
   if(process.env.QUIBI_DEV_LOCAL_WRITE_ACTION==="create_vehicle" && vehicleId!==process.env.QUIBI_DEV_LOCAL_WRITE_VEHICLE_ID)return fail("Lokalno dovoljenje ne velja za to vozilo.");
   try {
-    if((await requirePhase1OperationalAccess()).role!=="owner")return fail("Novo vozilo lahko izrecno potrdi samo lastnik.");
+    if(!canConfirmQuibiVehicleCreate((await requirePhase1OperationalAccess()).role,process.env))return fail("Novo vozilo lahko izrecno potrdi samo lastnik.");
     const ctx = await context();
     const [{ data: customer }, { data: link }, { data: vehicle }, { data: existingLink },
       { data: serviceCase }] = await Promise.all([

diff --git a/src/lib/quibi/vehicle-create-permission.ts b/src/lib/quibi/vehicle-create-permission.ts
@@ -1,0 +1,7 @@
+import {hostedQuibiEnvironment} from './deployment-policy';
+/** Existing owner permission is unchanged; administrator extension is hosted DEV only. */
+export function canConfirmQuibiVehicleCreate(role:string,env:Record<string,string|undefined>):boolean {
+ if(role==='owner')return true;
+ if(role!=='admin')return false;
+ try{return hostedQuibiEnvironment(env)==='dev'}catch{return false}
+}

diff --git a/docs/qa/selan-a73-admin-dev-2026-10-24/README.md b/docs/qa/selan-a73-admin-dev-2026-10-24/README.md
@@ -1,0 +1,41 @@
+# Administratorska potrditev vozila v gostovanem DEV
+
+Administrator lahko v gostovanem Preview (APP_ENV=preproduction, QUIBI_MODE=dev, VERCEL_ENV=preview) izrecno potrdi novo Quibi vozilo. Produkcijski administrator te nove pravice nima; obstoječa pravica lastnika ostaja. Ni sprememb članstva, RLS, migracij, nastavitev WRITE/SEND ali produkcijske objave.
+
+## Naslednji klik
+
+1. Kot administrator odpri [primer #A73DB6BE](https://selan-dev-pr19-azalar7-langs-projects.vercel.app/dashboard/primeri/a73db6be-7216-4677-bc0a-26e97693ad75).
+2. Preveri BMW 318d, TEST-2026, VIN TESTSELANBX202602 in klikni **Potrdi in ustvari vozilo v Quibiju**.
+3. Selan ponovno preveri identiteto, podvojitve in dnevnik, poveže preverjen rezultat ter sam nadaljuje trajno pripravo osnutka. Ne zahteva dodatnega sprejema ali sinhronizacije. Po osvežitvi mora ostati ista povezava in shranjen osnutek.
+
+Vsi trije zahtevani opisi ostajajo: servis vozila, pregled pred tehničnim pregledom in pregled zavor. Katalog ne zagotavlja vseh cen: pozitivna cena pri »brezplačnem« pregledu zahteva izbiro; neprepoznana storitev ostane prosta brez izmišljene cene. Nastanek predračuna ni samodejna poslovna odobritev ali CREATE dokumenta.
+
+## Dokazi in omejitve
+
+- 45 ciljnih testov: dovoljenja DEV/prod/lokalno/demo, identiteta, podvojitve, priprava treh storitev in potek.
+- 5 dodatnih testov dejanske strežniške akcije z izoliranimi adapterji: DEV admin, zavrnitev prod admin/mehanika/nepotrjenega klika, nespremenjena lastniška pravica, zastarel vnos, neuspešna povezava, samodejni začetek priprave po povezavi. Brez omrežja ali dejanskih CREATE operacij.
+- 15 hidriranih UI scenarijev pri 1440/390/350 px; DEV admin in lastnik imata neposreden gumb brez checkboxa; produkcijski admin ostane brez CREATE. 42 dodatnih navigacijskih UI scenarijev uspešnih.
+- TypeScript in ciljni ESLint uspešna.
+- Dejanska DEV baza: aktivni administrator in lastnik oba uspešno prestaneta obstoječi resolve_case_vehicle/ready. Funkcija in RLS že dovoljujeta aktivno članstvo owner/admin v pravilni organizaciji. Spremembe baze niso potrebne.
+- Prijavljeni E2E **ni preverjen**: CUA vrne `failed to write kernel assets`, ločeni Playwright pa preusmeri na /login. Odprta uporabnikova seja ne pomeni, da jo ima testno orodje.
+- Vozila ali dokumenta nismo ustvarili. Ni pošiljanja e-pošte. Dejanski uspeh uporabnikovega klika in poznejše shranjevanje v prijavljeni aplikaciji mora potrditi ročni preizkus zgoraj.
+
+## Sintetični posnetki dejanskih komponent
+
+![DEV administrator, namizje](../selan-redesign/vehicle-admin-1440.png)
+![DEV administrator, telefon](../selan-redesign/vehicle-admin-390.png)
+![Produkcijski administrator brez nove pravice](../selan-redesign/vehicle-admin-production-390.png)
+
+## Prebrane smernice in analiza
+
+- C:/Users/Admin/.codex/worktrees/selan-p0-guided-case/m3-m4-ci-db-tests-v1/AGENTS.md in CLAUDE.md
+- C:/Users/Admin/.ai-os/ORCHESTRATION_GUIDE.md
+- C:/Users/Admin/.agents/skills/ai-orchestrator/SKILL.md
+- C:/Users/Admin/.agents/skills/security-review/SKILL.md
+- C:/Users/Admin/.agents/skills/deploy-to-vercel/SKILL.md
+- C:/Users/Admin/.codex/plugins/cache/openai-curated-remote/supabase/1.0.0/skills/supabase/SKILL.md
+- C:/Users/Admin/.codex/plugins/cache/openai-curated-remote/vercel/0.54.1/skills/deployments-cicd/SKILL.md
+- C:/Users/Admin/avtoservis-selan/docs/selan-rea-complete-ux-audit.md
+- node_modules/next/dist/docs/01-app/03-api-reference/01-directives/use-server.md v aktivnem worktreeju
+
+REA pregled je delno starejši od PR: aktivni obrazec, zložene podrobnosti in nadaljevanje priprave že obstajajo. Teh rešitev nismo ponovno gradili. Nova sprememba je omejena DEV pravica in njena dosledna uporaba v obeh obstoječih strežniških poteh in UI.
